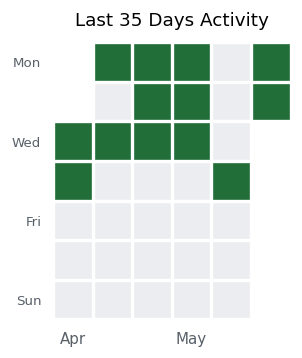
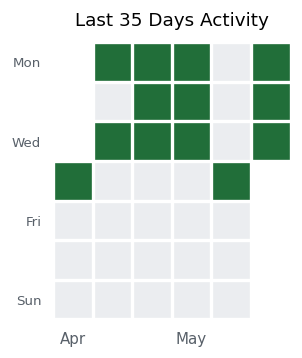
Lab Entry: 2026-05-13

Changed region(s): [[0.8344, 0.338, 0.9834, 0.4609], [0.1788, 0.338, 0.3278, 0.4609]]

diff --git a/README.md b/README.md
@@ -1,7 +1,7 @@
-# 🏃 平均週 2.4 回でつーがく中！
+# 🏃 平均週 2.6 回でつーがく中！
 <p align="center">
   <img src="./monthly_report.png" alt="Attendance Calendar">
 </p>
 
 ___
-*最終更新: 2026-05-12*
+*最終更新: 2026-05-13*
